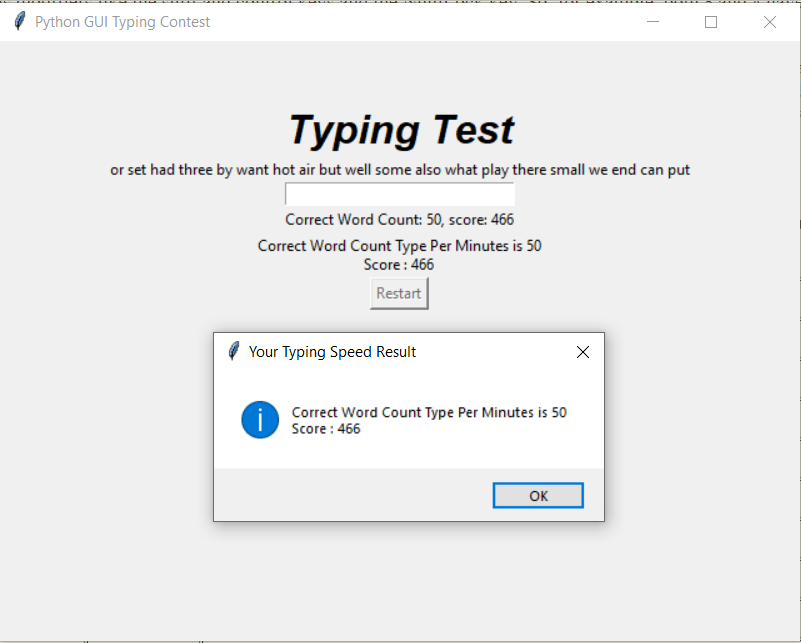
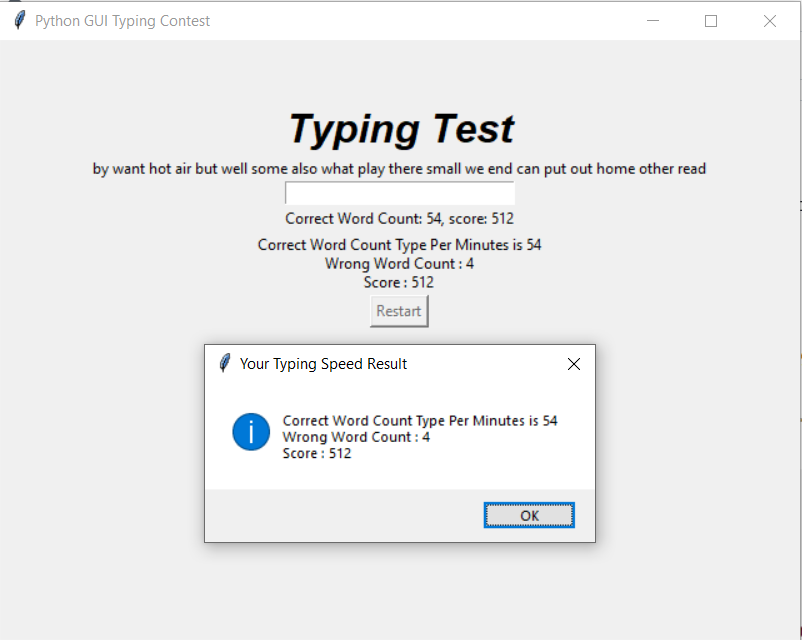
Update

Changed region(s): [[0.2497, 0.3125, 0.7803, 0.875], [0.0, 0.0, 1.0, 1.0], [0.0936, 0.1562, 0.9051, 0.2812]]

diff --git a/main.py b/main.py
@@ -69,6 +69,11 @@ def key_press(event):
         # Press spacebar or Enter
         if event.keycode == 32 or event.keycode == 13:
             text = input.get().strip()
+
+            # empty string will be ignored
+            if not bool(text):
+                return
+
             print(text)
             correct_word = False
             for i in range(20):
@@ -82,7 +87,7 @@ def key_press(event):
                 correct_typing_counter += 1
             else:
                 update_score = -5
-                wrong_typing_counter -= 1
+                wrong_typing_counter += 1
 
             score += update_score
             updateLabel()
@@ -108,7 +113,9 @@ def startCounter():
         if delta_time > 60:
            break
 
-    message = f"Correct Word Count Type Per Minutes is {correct_typing_counter}\nScore : {score}"
+    message = f"Correct Word Count Type Per Minutes is {correct_typing_counter}\n" \
+              f"Wrong Word Count : {wrong_typing_counter}\n" \
+              f"Score : {score}"
     labelResult.config(text=message)
     tkinter.messagebox.showinfo(title="Your Typing Speed Result", message=message)
     input.config(state="disabled")
